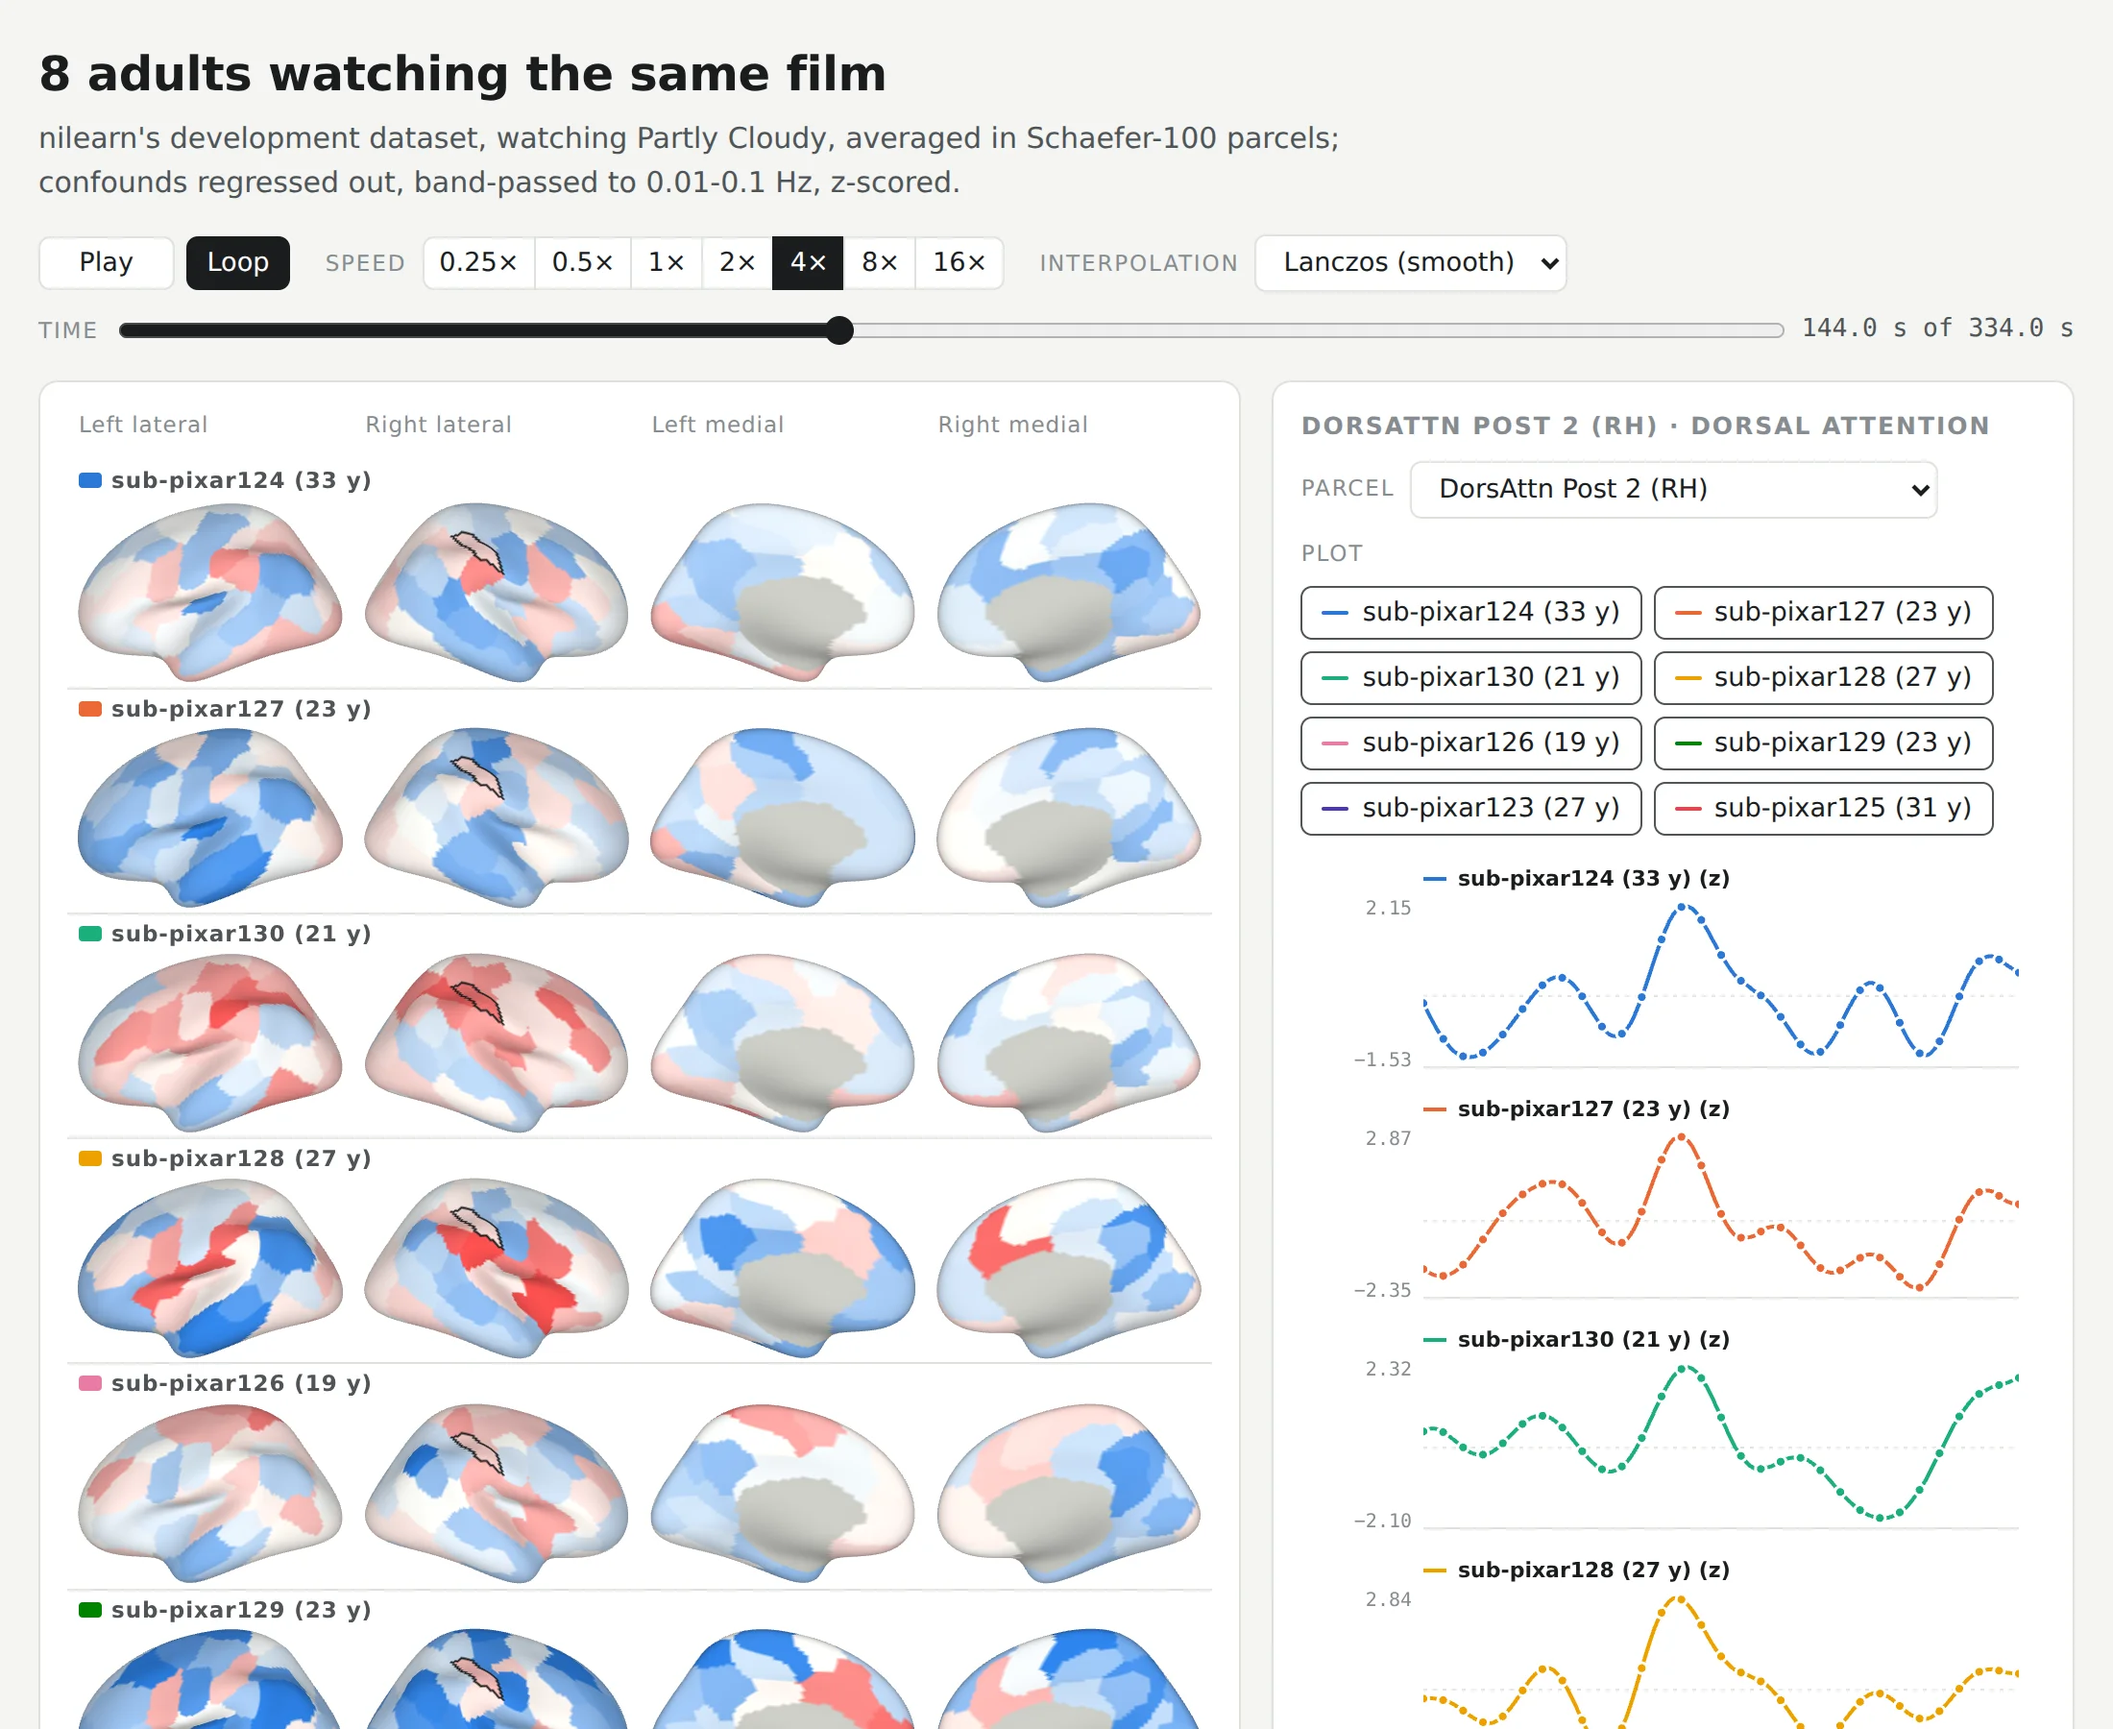
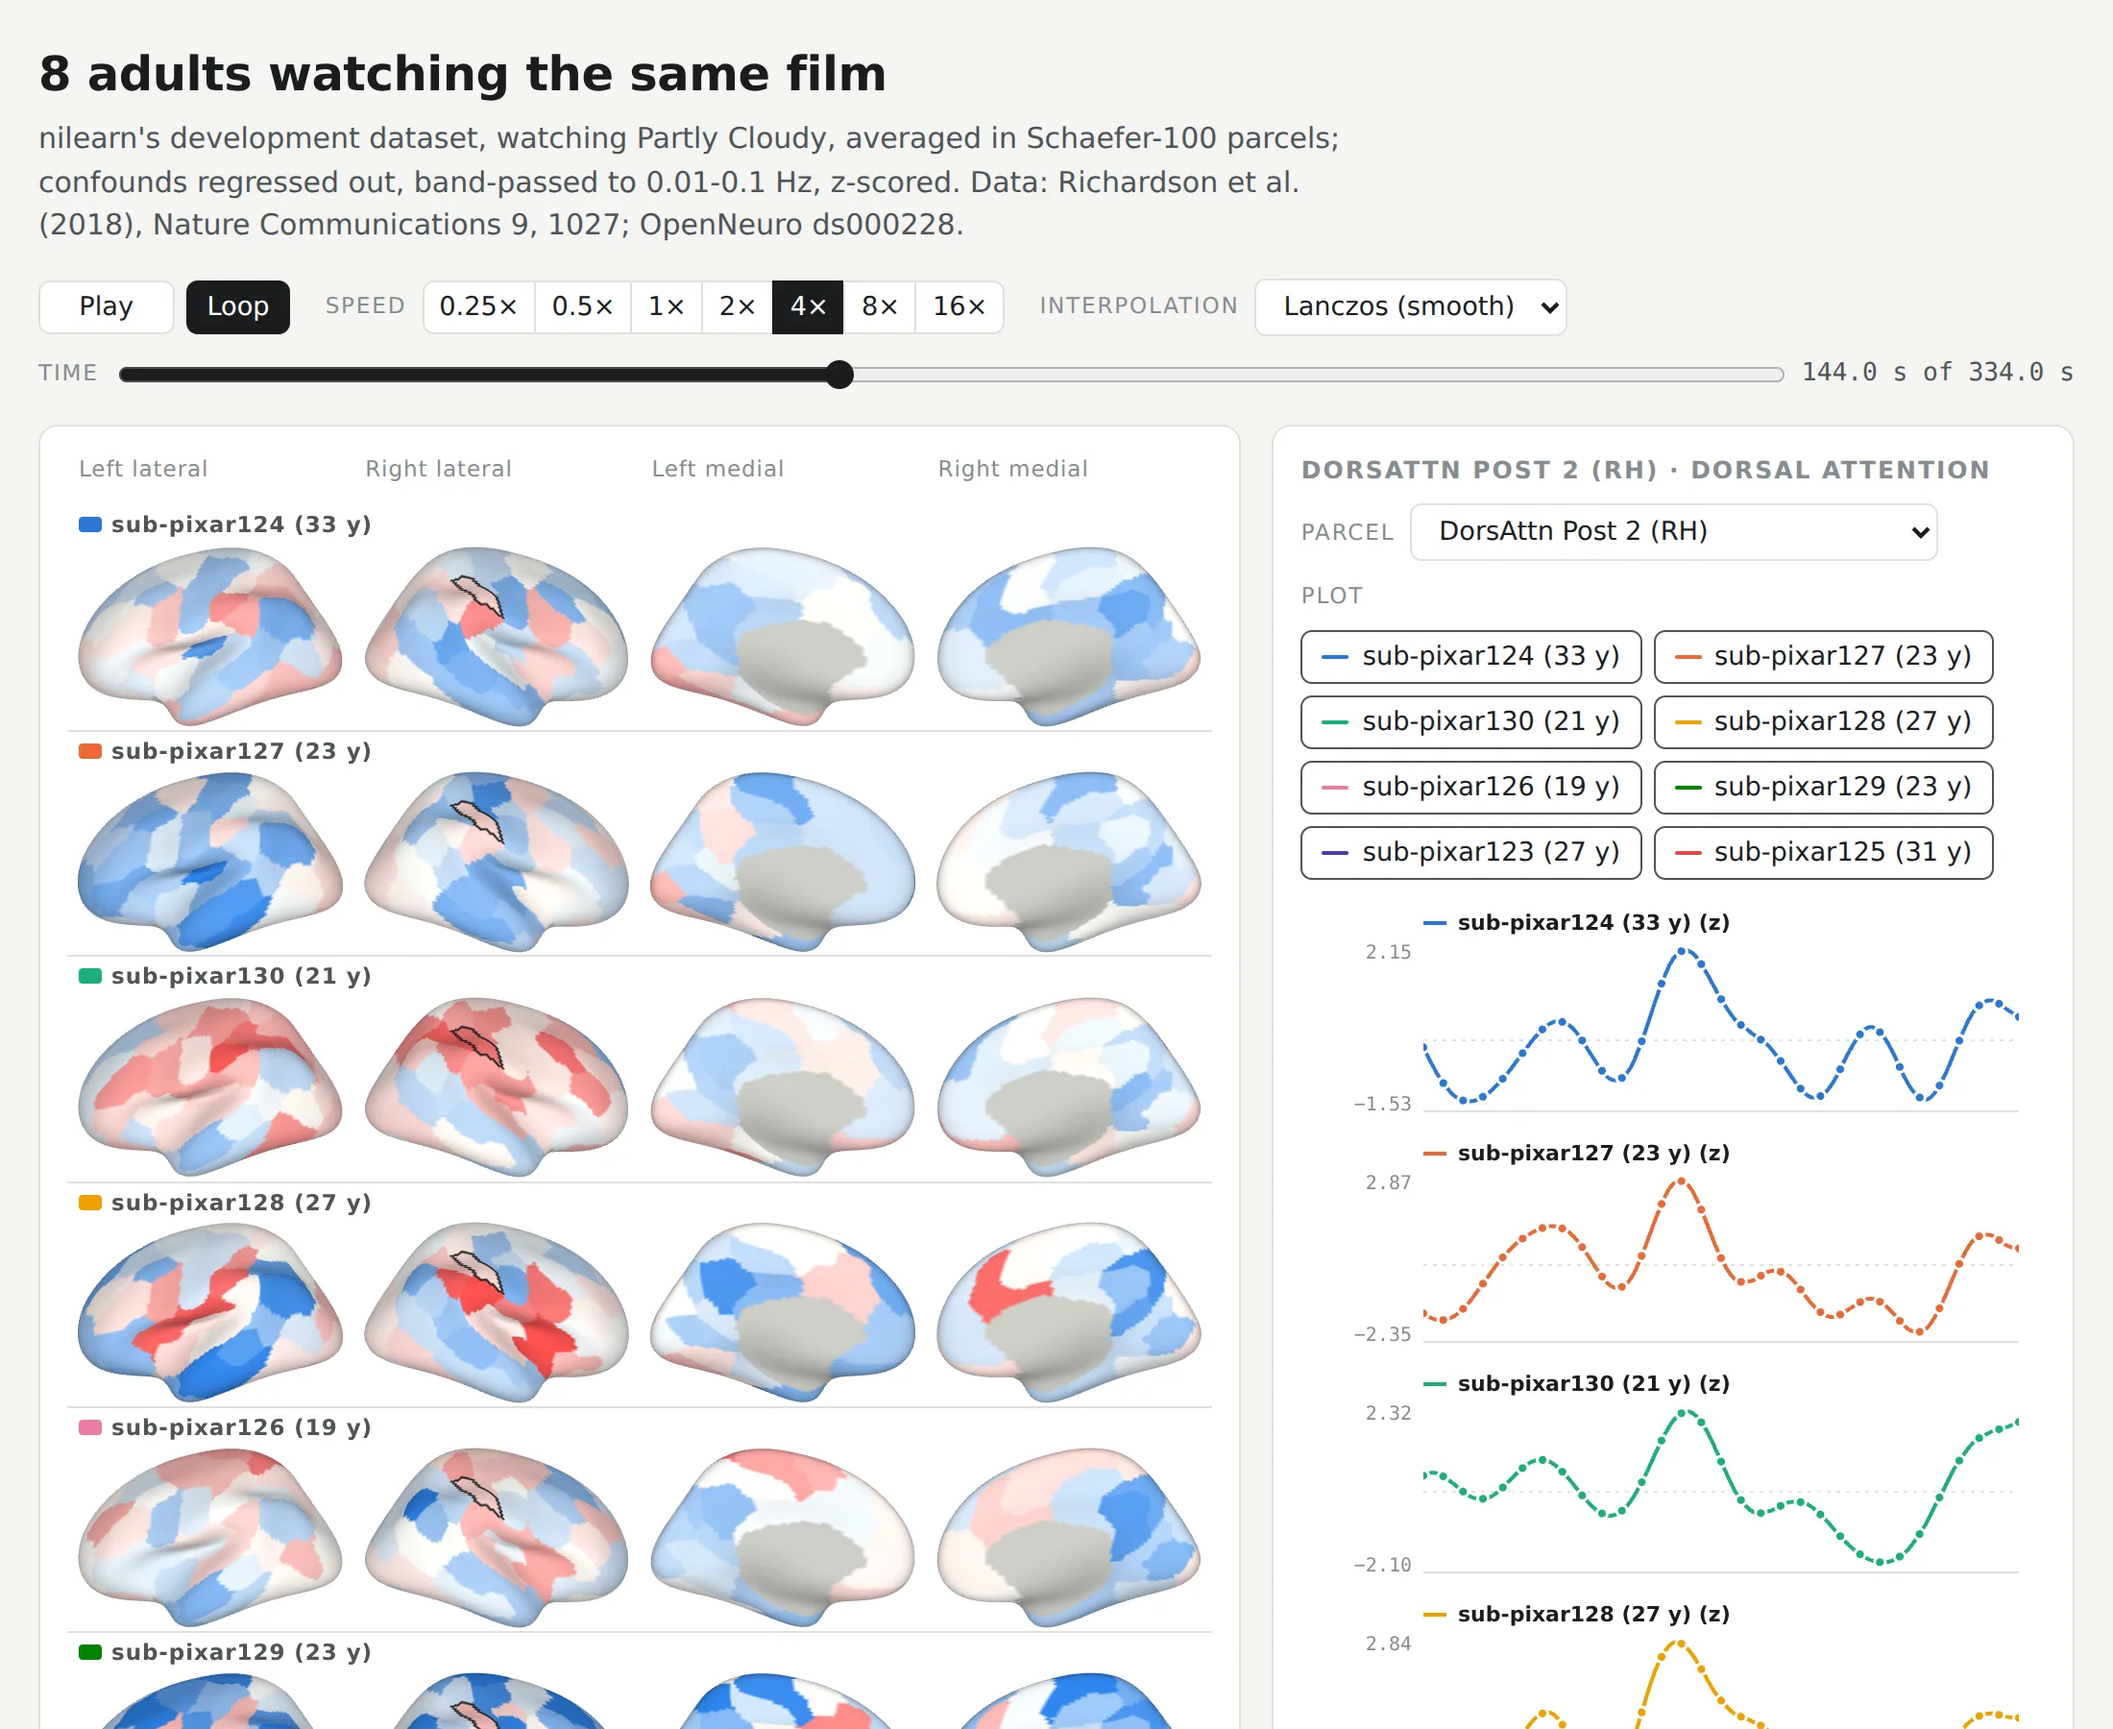
Cite the Partly Cloudy dataset

diff --git a/examples/movie_ages.py b/examples/movie_ages.py
@@ -13,6 +13,11 @@ agree most: the highest mean correlation between each participant and the averag
 
 nilearn's fetcher takes the first children by ID, who are the youngest, so this picks participants from its table
 and downloads them with the fetcher's per-participant helper, which is private to nilearn.
+
+The data are from Richardson et al. (2018), shared on OpenNeuro as ds000228
+(https://doi.org/10.18112/openneuro.ds000228.v1.0.0). If you use them, cite:
+    Richardson, H., Lisandrelli, G., Riobueno-Naylor, A., & Saxe, R. (2018). Development of the social brain from
+    age three to twelve years. Nature Communications, 9, 1027. https://doi.org/10.1038/s41467-018-03399-2
 """
 import argparse
 from pathlib import Path
@@ -86,7 +91,8 @@ def main():
                    description=f"nilearn's development dataset: {len(kids)} children ({int(kids.min())} to "
                                f'{int(kids.max())} years old) and {len(grown)} adults ({int(grown.min())} to '
                                f'{int(grown.max())}) watching Partly Cloudy, youngest first, averaged in Schaefer-100 '
-                               'parcels; confounds regressed out, band-passed to 0.01-0.1 Hz, z-scored.')
+                               'parcels; confounds regressed out, band-passed to 0.01-0.1 Hz, z-scored.'
+                               ' Data: Richardson et al. (2018), Nature Communications 9, 1027; OpenNeuro ds000228.')
     print(page.save(args.out), page)
 
 

diff --git a/examples/movie_adults.py b/examples/movie_adults.py
@@ -10,6 +10,11 @@ across people. The rows follow a hierarchical clustering of the adults (average 
 two adults' similarity is the correlation of their signals in time, averaged over parcels), so alike adults sit
 together. The plots open on the parcel where the adults agree most: the highest mean correlation between each
 adult and the average of the others.
+
+The data are from Richardson et al. (2018), shared on OpenNeuro as ds000228
+(https://doi.org/10.18112/openneuro.ds000228.v1.0.0). If you use them, cite:
+    Richardson, H., Lisandrelli, G., Riobueno-Naylor, A., & Saxe, R. (2018). Development of the social brain from
+    age three to twelve years. Nature Communications, 9, 1027. https://doi.org/10.1038/s41467-018-03399-2
 """
 import argparse
 
@@ -72,7 +77,8 @@ def main():
     page = pv.view(series, atlas, tr=tr, units='z', cortex='rows', selected=names[np.argmax(agree)], speed=4,
                    title=f'{len(series)} adults watching the same film',
                    description="nilearn's development dataset, watching Partly Cloudy, averaged in Schaefer-100 "
-                               'parcels; confounds regressed out, band-passed to 0.01-0.1 Hz, z-scored.')
+                               'parcels; confounds regressed out, band-passed to 0.01-0.1 Hz, z-scored.'
+                               ' Data: Richardson et al. (2018), Nature Communications 9, 1027; OpenNeuro ds000228.')
     print(page.save(args.out), page)
 
 

diff --git a/examples/movie_fmri.py b/examples/movie_fmri.py
@@ -6,6 +6,11 @@ In the development dataset, participants watched Pixar's "Partly Cloudy" during 
 preprocessed run (MNI space, TR 2 s, about 6 minutes) and the volumetric Schaefer atlas, averages the BOLD signal
 in each parcel, and regresses out the confounds that come with the run. The page holds two series, both z-scored:
 the cleaned signal, and the same signal band-passed to 0.01-0.1 Hz.
+
+The data are from Richardson et al. (2018), shared on OpenNeuro as ds000228
+(https://doi.org/10.18112/openneuro.ds000228.v1.0.0). If you use them, cite:
+    Richardson, H., Lisandrelli, G., Riobueno-Naylor, A., & Saxe, R. (2018). Development of the social brain from
+    age three to twelve years. Nature Communications, 9, 1027. https://doi.org/10.1038/s41467-018-03399-2
 """
 import argparse
 
@@ -31,7 +36,8 @@ def main():
     atlas = pv.Atlas.schaefer(100).reorder(names)
     page = pv.view(series, atlas, tr=tr, units='z', speed=4, title='Watching a short film, one participant',
                    description="nilearn's development dataset, watching Partly Cloudy, averaged in Schaefer-100 "
-                               'parcels; confounds regressed out, z-scored.')
+                               'parcels; confounds regressed out, z-scored.'
+                               ' Data: Richardson et al. (2018), Nature Communications 9, 1027; OpenNeuro ds000228.')
     print(page.save(args.out), page)
 
 

diff --git a/README.md b/README.md
@@ -92,9 +92,9 @@ page = pv.view(
 )
 ```
 
-[`examples/movie_fmri.py`](examples/movie_fmri.py) builds the page shown at the top of this README, from one
-participant of nilearn's development dataset, in which participants watched a short film: the cleaned BOLD
-signal and a band-passed copy, in Schaefer-100 parcels.
+[`examples/movie_fmri.py`](examples/movie_fmri.py) builds the page shown at the top of this README: one
+participant from the [Partly Cloudy dataset](#data-in-the-examples) of Richardson et al. (2018), watching a short
+film, with the cleaned BOLD signal and a band-passed copy in Schaefer-100 parcels.
 
 ## Several series side by side
 
@@ -122,8 +122,8 @@ scale beside the plot:
 page = pv.view(participants, atlas, tr=2.0, cortex='grid', hue=ages, hue_label='Age (years)')
 ```
 
-The following examples use nilearn's development dataset. Each image shows the top of the page, 144 s into the
-film.
+The following examples use the same [dataset](#data-in-the-examples). Each image shows the top of the page, 144 s
+into the film.
 
 [`examples/movie_adults.py`](examples/movie_adults.py) draws eight adults in rows, ordered by a hierarchical
 clustering so that alike adults sit together, and opens the plots on the parcel where they agree most:
@@ -174,6 +174,21 @@ The page has these controls:
   left lateral, right lateral, left medial, right medial), and the interpolation.
 
 The page follows the system's light or dark theme.
+
+## Data in the examples
+
+The examples, and the images in this README, use MRI data that Richardson et al. (2018) collected from children
+aged 3 to 12 and from adults as they watched Pixar's short film *Partly Cloudy*. The original data are on
+OpenNeuro as [ds000228, version 1.0.0](https://doi.org/10.18112/openneuro.ds000228.v1.0.0), released under the
+[Open Data Commons Public Domain Dedication and License](https://opendatacommons.org/licenses/pddl/). The
+examples download nilearn's copy through `nilearn.datasets.fetch_development_fmri`, which is
+[preprocessed and downsampled to 4 mm](https://osf.io/wjtyq/). nilearn's description of its copy says that use
+is unrestricted for non-commercial research.
+
+If you use these data, cite the paper, as the dataset asks:
+
+> Richardson, H., Lisandrelli, G., Riobueno-Naylor, A., & Saxe, R. (2018). Development of the social brain from
+> age three to twelve years. *Nature Communications*, 9, 1027. https://doi.org/10.1038/s41467-018-03399-2
 
 ## License
 
